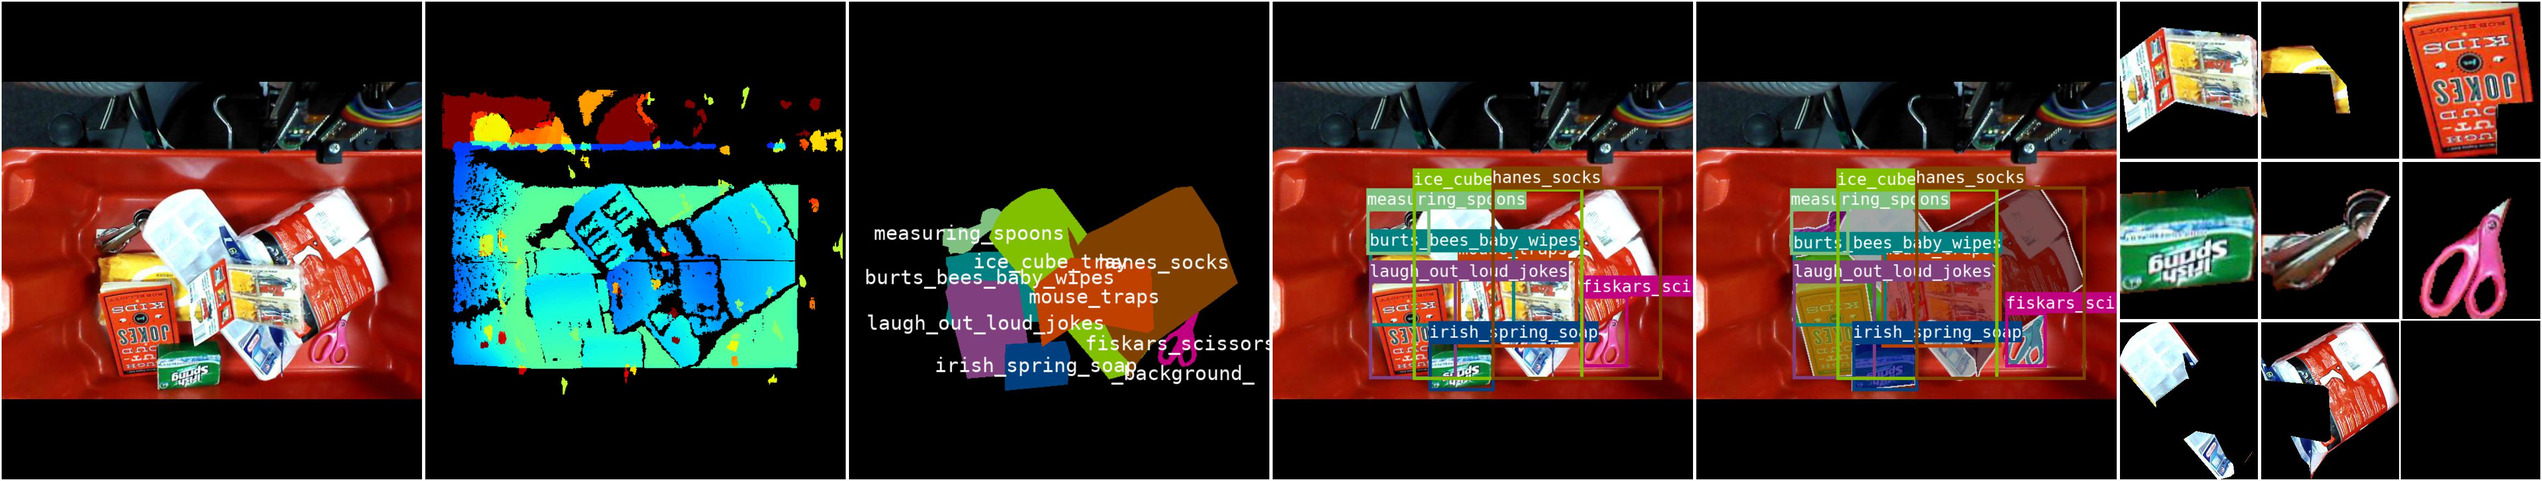
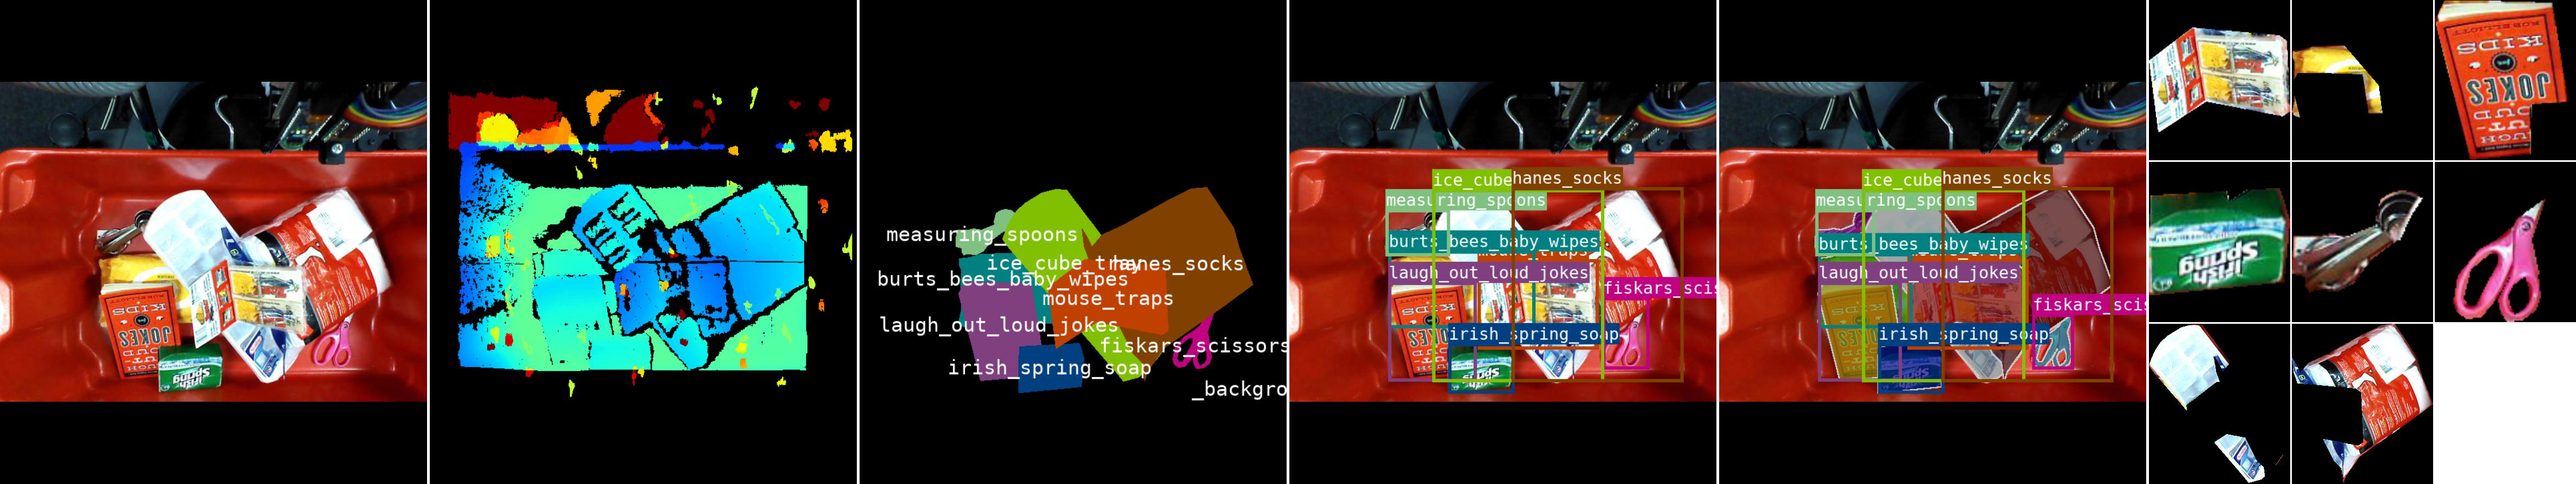
Stop drawing rectangle for border in tile()

diff --git a/imgviz/tile.py b/imgviz/tile.py
@@ -5,21 +5,34 @@ import numpy as np
 from .centerize import centerize
 from .color import gray2rgb
 from .color import rgb2rgba
-from .draw import rectangle
 
 
-def _tile(imgs, shape, dst):
+def _tile(imgs, shape, border=None, border_width=None):
     y_num, x_num = shape
-    tile_w = imgs[0].shape[1]
-    tile_h = imgs[0].shape[0]
+    tile_h, tile_w, channel = imgs[0].shape
+
+    if border is None:
+        border_width = 0
+
+    dst = np.zeros(
+        (
+            tile_h * y_num + border_width * (y_num - 1),
+            tile_w * x_num + border_width * (x_num - 1),
+            channel,
+        ),
+        dtype=np.uint8,
+    )
+    if border is not None:
+        dst[...] = border
+
     for y in range(y_num):
         for x in range(x_num):
             i = x + y * x_num
             if i < len(imgs):
-                y1 = y * tile_h
-                y2 = (y + 1) * tile_h
-                x1 = x * tile_w
-                x2 = (x + 1) * tile_w
+                y1 = y * tile_h + y * border_width
+                y2 = y1 + tile_h
+                x1 = x * tile_w + x * border_width
+                x2 = x1 + tile_w
                 dst[y1:y2, x1:x2] = imgs[i]
     return dst
 
@@ -66,13 +79,8 @@ def tile(
     if shape is None:
         shape = _get_tile_shape(len(imgs), hw_ratio=1.0 * max_h / max_w)
 
-    if border:
+    if border is not None:
         border = np.asarray(border, dtype=np.uint8)
-        if border.ndim == 1:
-            border = border[None].repeat(len(imgs), axis=0)
-        assert border.ndim == 2
-    else:
-        border = (border,) * len(imgs)
 
     if border_width is None:
         border_width = 3
@@ -96,21 +104,8 @@ def tile(
 
         img = centerize(src=img, shape=(max_h, max_w, channel), cval=cval)
 
-        if border[i] is not None:
-            img = rectangle(
-                src=img,
-                aabb1=(0, 0),
-                aabb2=(img.shape[0] - 1, img.shape[1] - 1),
-                outline=border[i],
-                width=border_width,
-            )
-
         imgs[i] = img
 
-    height = max_h * shape[0]
-    width = max_w * shape[1]
-    dst = np.zeros((height, width, channel), dtype=np.uint8)
-    if cval:
-        dst[:, :] = cval
-
-    return _tile(imgs=imgs, shape=shape, dst=dst)
+    return _tile(
+        imgs=imgs, shape=shape, border=border, border_width=border_width
+    )

diff --git a/getting_started.py b/getting_started.py
@@ -43,6 +43,7 @@ tiled = imgviz.tile(
     [rgb, depthviz, labelviz, bboxviz, maskviz, insviz],
     shape=(1, 6),
     border=(255, 255, 255),
+    border_width=5,
 )
 # }} GETTING_STARTED
 # -----------------------------------------------------------------------------
